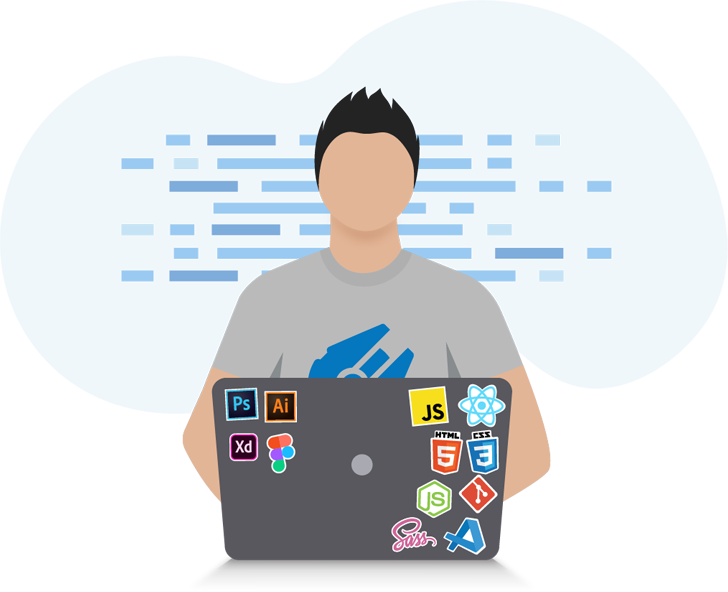
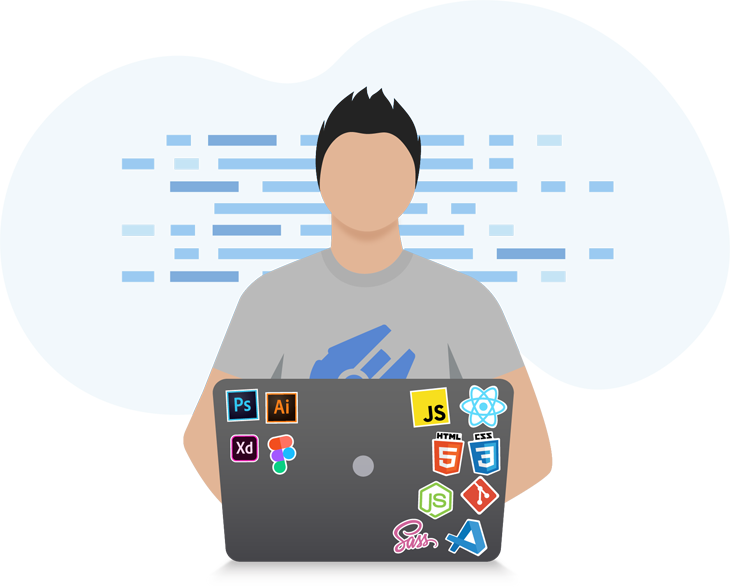
main color updt, home pic updt, btn style updt

diff --git a/src/styles/ProjectDetailsStyles.js b/src/styles/ProjectDetailsStyles.js
@@ -146,6 +146,7 @@ const OtherProjectsContainer = styled.div`
       transform-style: preserve-3d;
       -ms-grid-column-align: center;
       justify-self: center;
+      border-radius: 5px;
     }
 
     .card {
@@ -161,6 +162,7 @@ const OtherProjectsContainer = styled.div`
         0 10px 20px rgba(134, 141, 155, 0.2);
       box-shadow: 0 2px 6px rgba(134, 141, 155, 0.25),
         0 10px 20px rgba(134, 141, 155, 0.2);
+      border-radius: 5px;
       ${transition(0.6)}
     }
 
@@ -168,12 +170,14 @@ const OtherProjectsContainer = styled.div`
       position: relative;
       overflow: hidden;
       padding: 1rem;
+      border-radius: 5px;
     }
 
     .card-back {
       text-align: center;
       font-size: 3rem;
       position: absolute;
+      border-radius: 5px;
 
       -webkit-transform: rotateY(180deg);
       transform: rotateY(180deg);
@@ -187,6 +191,7 @@ const OtherProjectsContainer = styled.div`
         text-decoration: none;
         border: 2px solid #fff;
         color: ${black};
+        border-radius: 5px;
         ${transition(0.3)}
 
         &:hover {

diff --git a/src/styles/ButtonStyle.js b/src/styles/ButtonStyle.js
@@ -1,6 +1,6 @@
 import styled from "styled-components";
 import { animated } from "react-spring";
-import { mainColor } from "./Colors";
+import { mainColor, btnShadow } from "./Colors";
 import { transition } from "./common";
 
 const ButtonStyle = styled(animated.button)`
@@ -11,7 +11,10 @@ const ButtonStyle = styled(animated.button)`
   background-color: transparent;
   outline: none;
   border: 1px solid ${mainColor};
-  border-radius: 2px;
+  border-radius: 5px;
+  box-shadow: ${(props) =>
+    props.primary ? `0 4px 14px 0 ${btnShadow}50` : "none"};
+
   font-size: 1.8rem;
   overflow: hidden;
   cursor: pointer;
@@ -52,6 +55,9 @@ const ButtonStyle = styled(animated.button)`
   &:focus::after,
   &:active::after {
     height: ${(props) => (props.secondary ? "100%" : "0%")};
+  }
+  &:hover {
+    box-shadow: none;
   }
 
   /****************************************** */

diff --git a/src/styles/ProjectStyle.js b/src/styles/ProjectStyle.js
@@ -1,5 +1,5 @@
 import styled from "styled-components";
-import { mainColor } from "./Colors";
+import { mainColor, black } from "./Colors";
 import { transition, flex } from "./common";
 
 const ProjectContainter = styled.div`
@@ -10,7 +10,7 @@ const ProjectContainter = styled.div`
     0 10px 20px rgba(134, 141, 155, 0.2);
   box-shadow: 0 2px 6px rgba(134, 141, 155, 0.25),
     0 10px 20px rgba(134, 141, 155, 0.2);
-  border-radius: 3px;
+  border-radius: 5px;
   overflow: hidden;
   ${transition(0.3)}
 
@@ -36,7 +36,7 @@ const ProjectContainter = styled.div`
 
     h3 {
       font-weight: 700;
-      color: ${mainColor};
+      color: ${black};
       font-size: 2rem;
       text-transform: uppercase;
     }

diff --git a/src/styles/HeaderStyles.js b/src/styles/HeaderStyles.js
@@ -9,12 +9,12 @@ const NavHeader = styled.header`
   margin-bottom: 4rem;
 
   .logo {
-    width: 4.4rem;
-    fill: ${mainColor};
+    width: 4.6rem;
+    fill: ${black};
     ${transition(0.2)}
 
     &:hover {
-      fill: ${black};
+      fill: ${mainColor};
     }
     @media screen and (max-width: 400px) {
       width: 3.2rem;
@@ -83,7 +83,7 @@ const Nav = styled.div`
   box-shadow: 0 2px 6px rgba(134, 141, 155, 0.25),
     0 10px 20px rgba(134, 141, 155, 0.2);
   background-color: white;
-  border-radius: 3px;
+  border-radius: 5px;
 
   .nav-links {
     width: 0;

diff --git a/src/styles/ContactStyle.js b/src/styles/ContactStyle.js
@@ -84,13 +84,13 @@ const FormWrapper = styled.div`
         font-size: 1.8rem;
         width: 100%;
         height: 5rem;
-        color: ${black};
+        color: ${mainColor};
         border: 2px solid white;
-        border-radius: 2px;
+        border-radius: 5px;
         outline: none;
         background: #fff;
         font-family: "Open Sans", sans-serif;
-        box-shadow: 0 2px 4px rgba(134, 141, 155, 0.2);
+        box-shadow: 0 2px 6px rgba(134, 141, 155, 0.2);
         ${transition(0.2)}
       }
 

diff --git a/src/components/Home.js b/src/components/Home.js
@@ -58,7 +58,7 @@ const Home = ({ projects }) => {
             <br /> based in Belgrade, Serbia.
           </AboutMe>
           <Link to="/contact">
-            <Button style={btnSpring}>
+            <Button primary style={btnSpring}>
               <h5 className="btn-text">contact me</h5>
             </Button>
           </Link>

diff --git a/src/styles/Colors.js b/src/styles/Colors.js
@@ -1,6 +1,7 @@
-const mainColor = "#0477BF";
+const mainColor = "#1764E0";
+const btnShadow = "#1574FF";
 const lightGrey = "#F5F5F5";
 const darkGrey = "#808080";
 const black = "#262626";
 
-export { mainColor, lightGrey, darkGrey, black };
+export { mainColor, btnShadow, lightGrey, darkGrey, black };

diff --git a/src/components/Contact.js b/src/components/Contact.js
@@ -95,7 +95,7 @@ class Contact extends Component {
                   </div>
                 </label>
 
-                <Button type="submit">
+                <Button primary type="submit">
                   <h5 className="btn-text">Send</h5>
                 </Button>
               </form>
